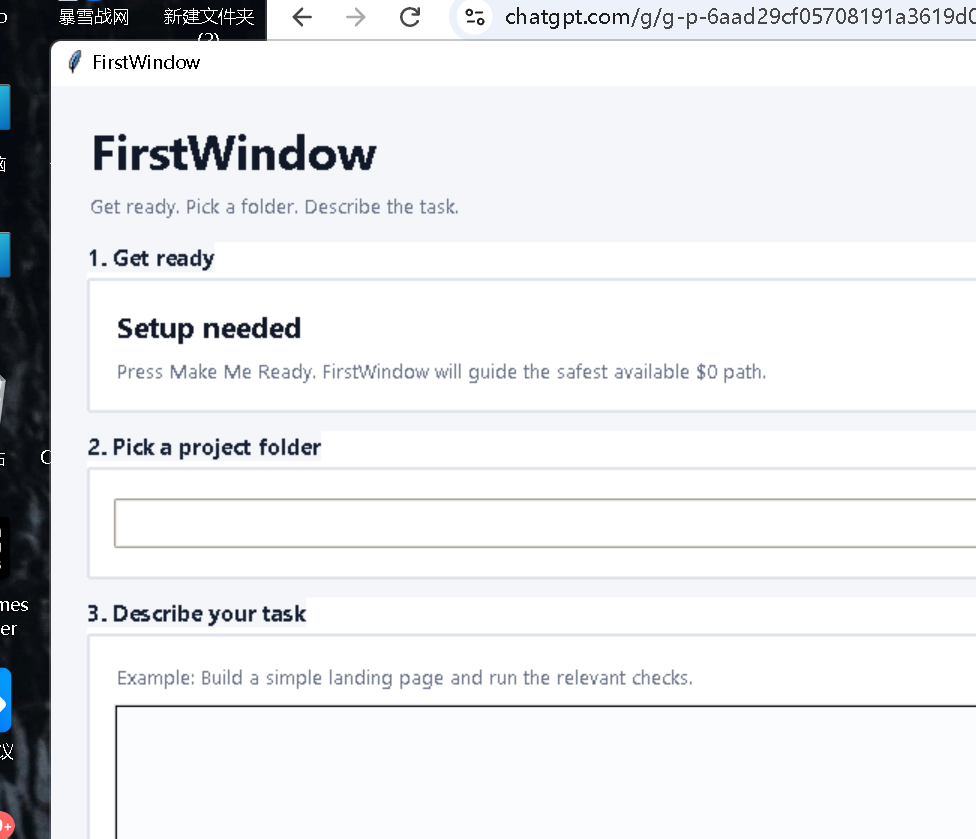
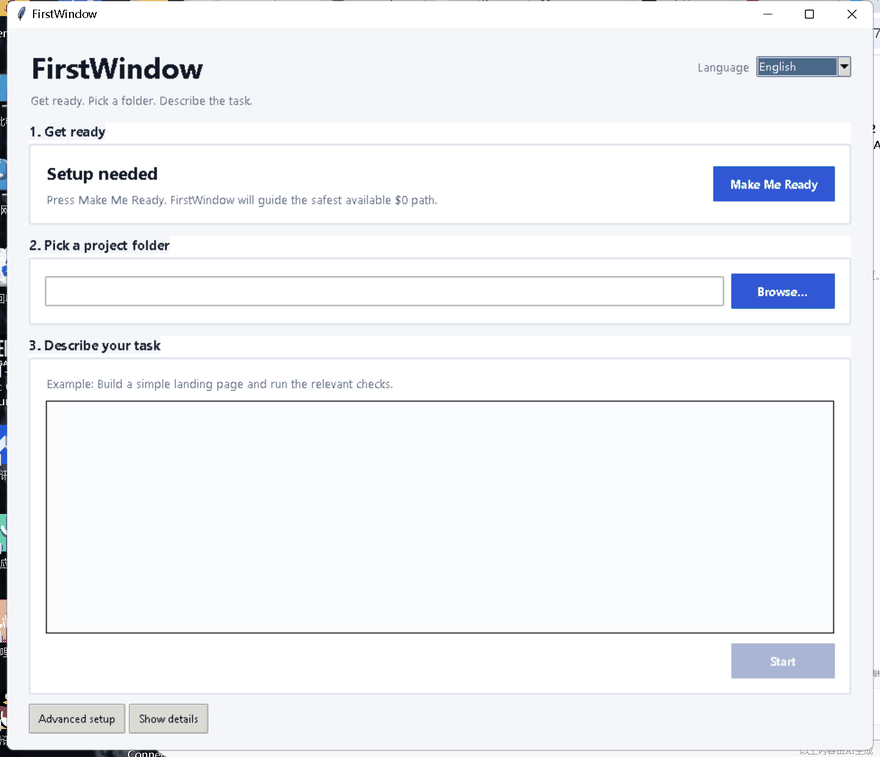
docs: add verified v0.4.2 Windows walkthrough

diff --git a/site/index.html b/site/index.html
@@ -9,8 +9,11 @@
 <meta property="og:title" content="FirstWindow — Your first coding agent for Windows">
 <meta property="og:description" content="Three steps: get ready, pick a folder, describe the task. FirstWindow keeps the agent plumbing out of your way.">
 <meta property="og:url" content="https://firstwindow-public.vercel.app/">
+<meta property="og:image" content="https://raw.githubusercontent.com/wookzzz57-beep/first-window/main/docs/assets/firstwindow-window.png?v=real-v042-20260920">
+<meta property="og:image:alt" content="FirstWindow v0.4.2 real Windows application walkthrough">
 <meta name="twitter:card" content="summary_large_image"><meta name="twitter:title" content="FirstWindow — Your first coding agent for Windows">
 <meta name="twitter:description" content="Three steps from setup to your first task, with a fail-closed $0 guard.">
+<meta name="twitter:image" content="https://raw.githubusercontent.com/wookzzz57-beep/first-window/main/docs/assets/firstwindow-window.png?v=real-v042-20260920">
 <title>FirstWindow — Your first coding agent for Windows</title>
 <script type="application/ld+json">
 {"@context":"https://schema.org","@type":"SoftwareApplication","name":"FirstWindow","applicationCategory":"DeveloperApplication","operatingSystem":"Windows","softwareVersion":"0.4.2","url":"https://firstwindow-public.vercel.app/","downloadUrl":"https://github.com/wookzzz57-beep/first-window/releases/latest/download/FirstWindow-Windows-x64.exe","codeRepository":"https://github.com/wookzzz57-beep/first-window","license":"https://opensource.org/license/mit"}
@@ -36,8 +39,8 @@
 </section>
 
 <section class="proof">
-<div><div class="eyebrow">VERIFIED RELEASE · v0.4.2</div><h2>Show the product truth, not a misleading capture.</h2><p>The previous embedded recording has been removed while the public capture is re-verified against the released Windows build. The downloadable EXE, checksum, CI checks, bilingual UI, and execution evidence remain the accepted v0.4.2 baseline.</p></div>
-<div class="panel"><strong>Release evidence</strong><p>Windows x64 EXE · SHA-256 checksum · CI self-test · Hermes Agent → Agnes API readiness and task execution · fail-closed $0 guard.</p><a class="secondary" href="https://github.com/wookzzz57-beep/first-window/releases/latest">Open verified release</a></div>
+<div><div class="eyebrow">REAL WINDOWS WALKTHROUGH · v0.4.2</div><h2>See the actual app before you download it.</h2><p>This is a window-only capture from the packaged v0.4.2 EXE: language switching, safe demo-project selection, and task entry. No generated mock UI and no unrelated desktop content.</p></div>
+<a href="https://github.com/wookzzz57-beep/first-window/blob/main/docs/assets/firstwindow-startup.gif" target="_blank" rel="noreferrer"><img src="https://raw.githubusercontent.com/wookzzz57-beep/first-window/main/docs/assets/firstwindow-startup.gif?v=real-v042-20260920" alt="Real FirstWindow v0.4.2 Windows walkthrough"></a>
 </section>
 
 <section class="section">

diff --git a/README.md b/README.md
@@ -41,6 +41,14 @@ No terminal is required for the normal Windows flow. If an interrupted task is f
   <strong>Simple surface. Guarded execution. Verifiable completion.</strong>
 </p>
 
+### Real Windows walkthrough
+
+<p align="center">
+  <img src="docs/assets/firstwindow-startup.gif?v=real-v042-20260920" alt="Real FirstWindow v0.4.2 Windows walkthrough" width="880">
+</p>
+
+<p align="center"><sub>Captured from the packaged v0.4.2 Windows EXE: switch English / 简体中文, choose a safe demo project, and enter a task. Window-only capture; no generated mock UI.</sub></p>
+
 ## What makes FirstWindow different
 
 | Beginner problem | FirstWindow behavior |
@@ -64,12 +72,6 @@ The current **v0.4.2 Windows app** is the stable product baseline.
 - Independent acceptance gate: agent exit 0 does **not** automatically mean VERIFIED
 
 > The community EXE is currently **unsigned**, so Windows SmartScreen may show an unknown-publisher warning. Verify the download against [SHA256SUMS.txt](https://github.com/wookzzz57-beep/first-window/releases/latest/download/SHA256SUMS.txt).
-
-### Product preview policy
-
-Only captures that match the released Windows build should appear on the project front page. The previous embedded recording has been removed from the README while the public capture is being re-verified, so the landing page cannot show a misleading or outdated UI.
-
-The release itself remains available here: **[Download FirstWindow for Windows](https://github.com/wookzzz57-beep/first-window/releases/latest/download/FirstWindow-Windows-x64.exe)**.
 
 ## Under the simple surface
 
